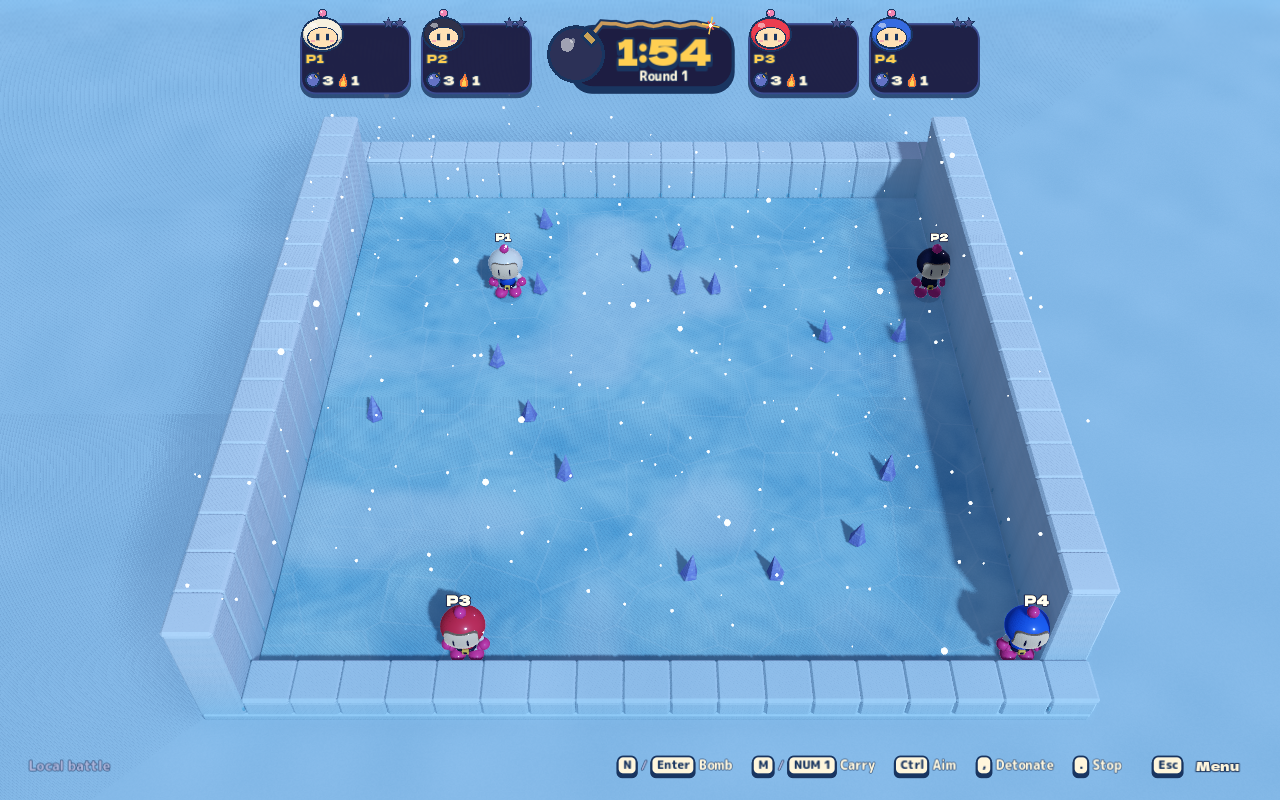
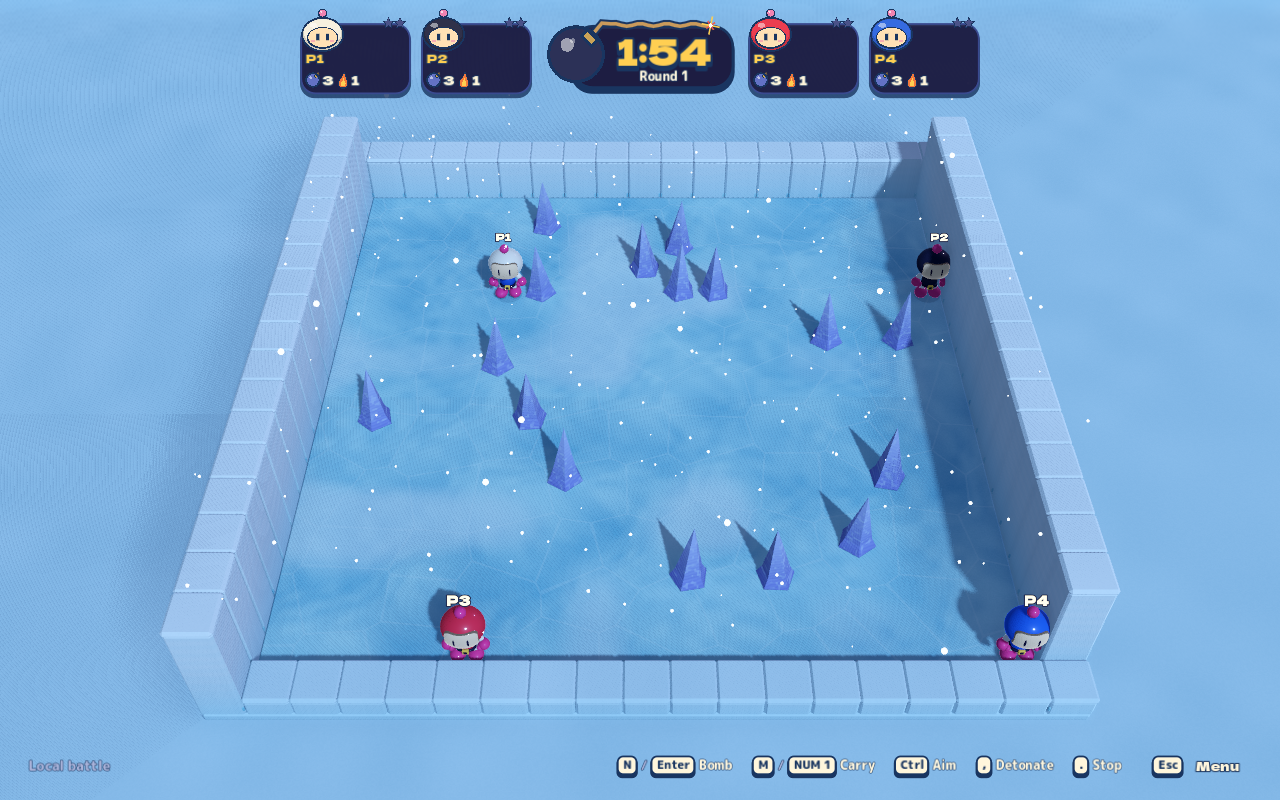
Replace Blizzard screenshots with larger violet spires

diff --git a/docs/blizzard-battle-verification.md b/docs/blizzard-battle-verification.md
@@ -1,6 +1,6 @@
 # Blizzard Battle verification
 
-2026-10-25. Tested implementation: `4ae05e4e1437b488b539367a9880e90b891d81e4`,
+2026-10-25. Tested implementation: `94b5f6c86af4c8707ddc3e5aceaf0aef3c168aff`,
 an unreleased source build using Godot 4.7.2 .NET / .NET 10. The
 [stage contract](blizzard-battle.md) separates original references from project
 physics, dimensions and eight-player tuning. [Research](blizzard-battle-research.md)
@@ -10,8 +10,8 @@ includes the supplied screenshot, official guidebook and normal/sudden-death foo
 
 - Canonical **public** gate passed all ten steps, including public boundaries,
   documentation links, tooling contracts and audio.
-- Canonical **managed** gate passed: **2,918** game integration checks,
-  **340** client/session checks, **65** focused AI checks, **19** original audio
+- Canonical **managed** gate passed: **2,920** game integration checks,
+  **342** client/session checks, **65** focused AI checks, **19** original audio
   cues and **23** cluster checks. The expanded AI soak passed **60** cases across
   five battle arenas, three difficulties, three/seven CPUs and two seeds.
   Blizzard accounts for twelve cases, with 14–96 bombs observed per case and
@@ -20,12 +20,14 @@ includes the supplied screenshot, official guidebook and normal/sudden-death foo
   room receiving advancing authoritative weather, protocol rejection, advanced
   settings, peer hosting and migration; forced adaptive relay and **36** real
   local fleet checks passed. These were task-owned loopback servers.
-- Final **core-headless** completed **1,259** assertions with zero runtime errors.
-  The focused final map check separately passed **31** assertions, including
-  sixteen-cone budgets, geometry and ice/foundation depth separation.
+- Final **core-headless** completed **1,260** assertions with zero runtime errors.
+  The focused managed map checks now include ten cases, with tall-spire
+  projectile obstruction/landing, blast shielding and cover-height transport.
+  Native geometry checks require spire tops at 1.755 render units, matching
+  accepted collision. Other arenas retain their prior cover heights.
 - The exact signed export passed a fresh **peer-rooms** retry (**19** assertions)
   and **adaptive-rooms** (**9**) against a task-owned server.
-- The final **recorded Metal map journey** passed **84** assertions with **12**
+- The initial **recorded Metal map journey**, before the spire enlargement, passed **84** assertions with **12**
   captures, **zero runtime errors and zero runtime warnings**. It covers native
   arena selection, four-player opening, actual snow motion and local pause,
   Low/Medium/High settings, night lighting, ordinary wind-affected aiming and
@@ -36,7 +38,11 @@ includes the supplied screenshot, official guidebook and normal/sudden-death foo
   recording were visually inspected. The clip includes ordinary menu/settings
   transitions. It is fixed-step gameplay evidence, not real-time GPU throughput.
 
-The broader eight-journey `blizzard-regression` graphical run is in progress.
+The user requested larger violet spires after the first screenshots. The
+updated spires are over twice as tall, with broader bodies and .94-unit bases.
+The screenshots below are replaced with captures of that updated build.
+
+The broader eight-journey `blizzard-regression` graphical run on the larger-spire build is in progress.
 Its final receipt will be recorded here before this PR leaves draft.
 
 ## Screenshots from the verified export
@@ -67,7 +73,10 @@ coplanar foundation/ice tops; the foundation now stays below the ice. Both were
 corrected before the verified captures above.
 
 A broad graphical attempt stopped at the existing 1600×1000 window-resize check
-on a 1600×1000 guest display. A dedicated 1920×1200 guest is used for subsequent
+on a 1600×1000 guest display. A later run passed graphics and lighting before
+revealing a setup-fixture dependency on the preceding arena selection; the
+fixture now configures its own default starting settings while retaining the
+native interactions. A dedicated 1920×1200 guest is used for subsequent
 runs. One guest startup exceeded the unchanged 180-second RPC readiness budget;
 the next focused recording reached the real Metal renderer and passed. These
 failed receipts remain available locally and are not counted as passing runs.
